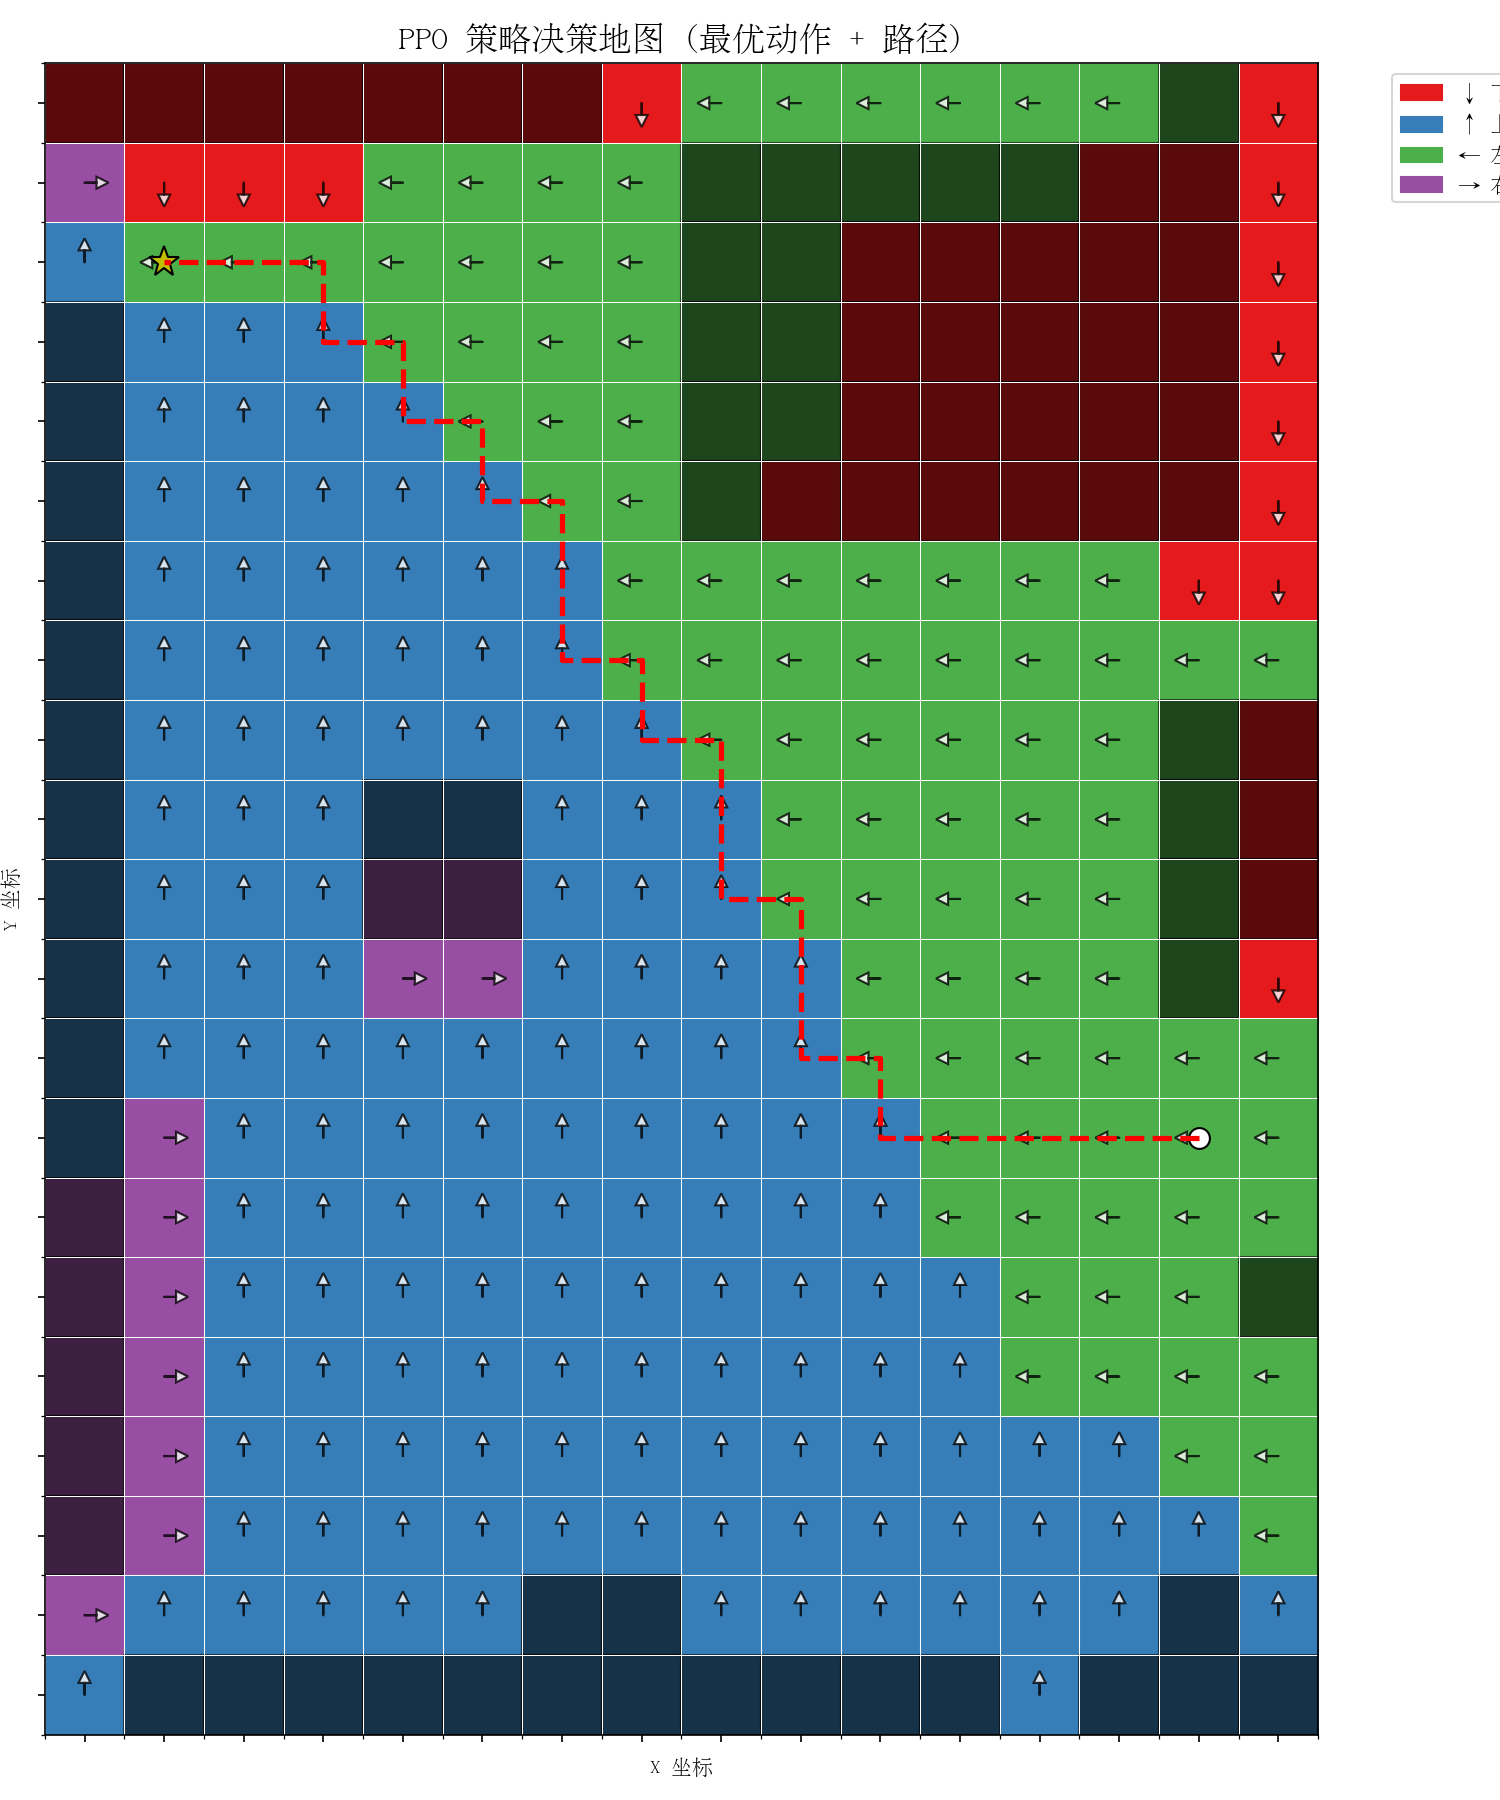
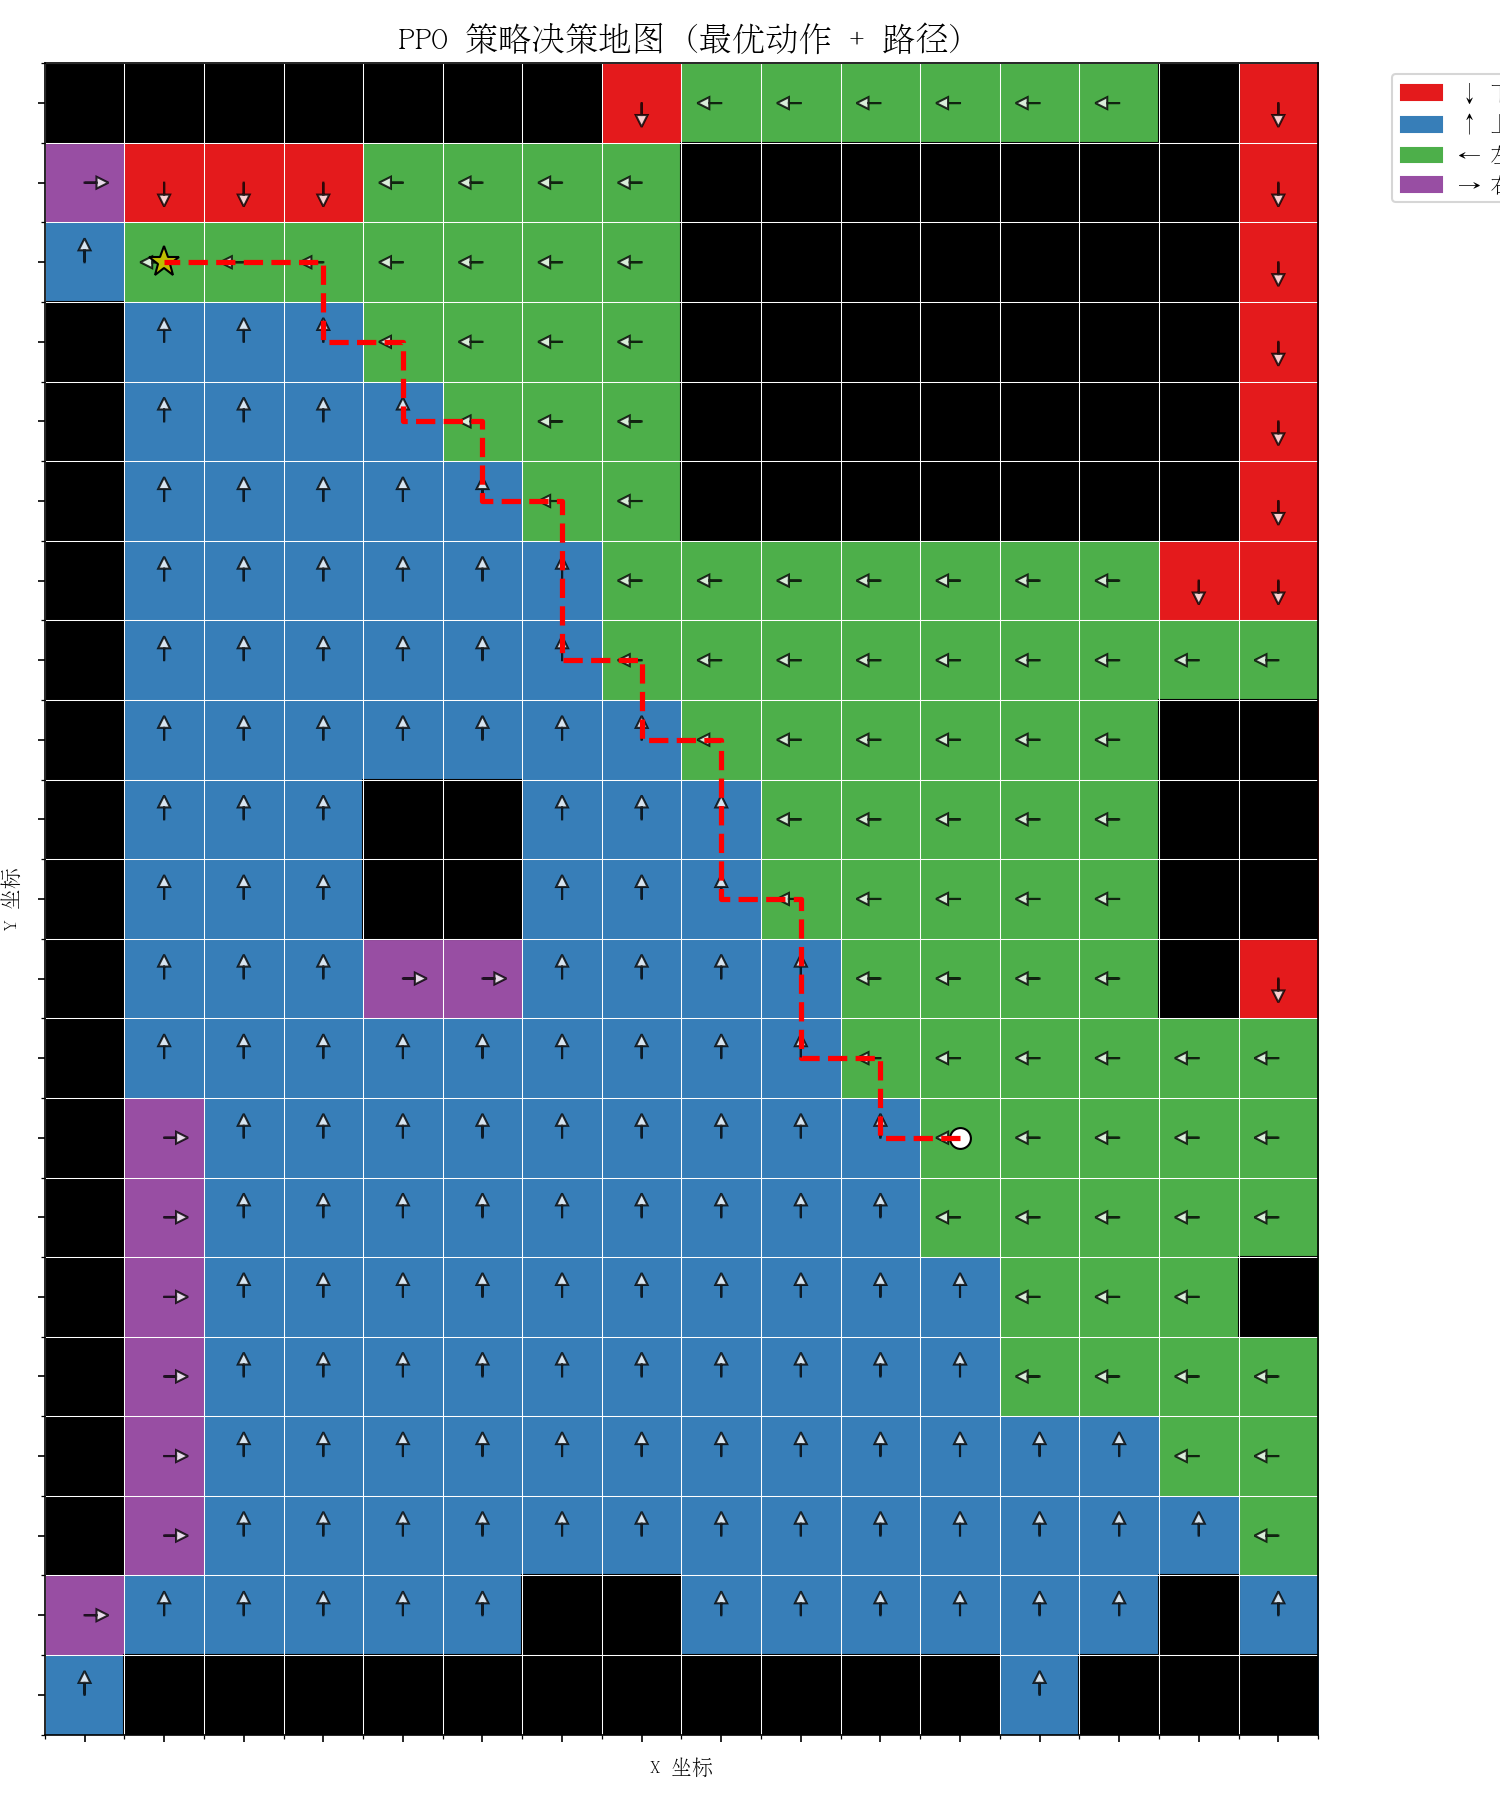
映射图全黑

diff --git a/rl_ppo_module/visualize_policy.py b/rl_ppo_module/visualize_policy.py
@@ -110,7 +110,7 @@ def visualize_policy():
     # ---- 画障碍物（灰色） ----
     for (ox, oy) in obstacles:
         rect = plt.Rectangle((ox - 0.5, oy - 0.5), 1, 1,
-                             facecolor='black', edgecolor='black', alpha=0.6)
+                             facecolor='black', edgecolor='black')
         ax.add_patch(rect)
 
     # ---- 起点（白点）和终点（黄星） ----
@@ -174,7 +174,7 @@ def visualize_policy():
         # 叠加障碍物（半透明）
         for (ox, oy) in obstacles:
             rect = plt.Rectangle((ox - 0.5, oy - 0.5), 1, 1,
-                                 facecolor='black', edgecolor='black', alpha=0.3)
+                                 facecolor='black', edgecolor='black')
             ax.add_patch(rect)
 
         plt.colorbar(im, ax=ax, fraction=0.046, pad=0.04)
